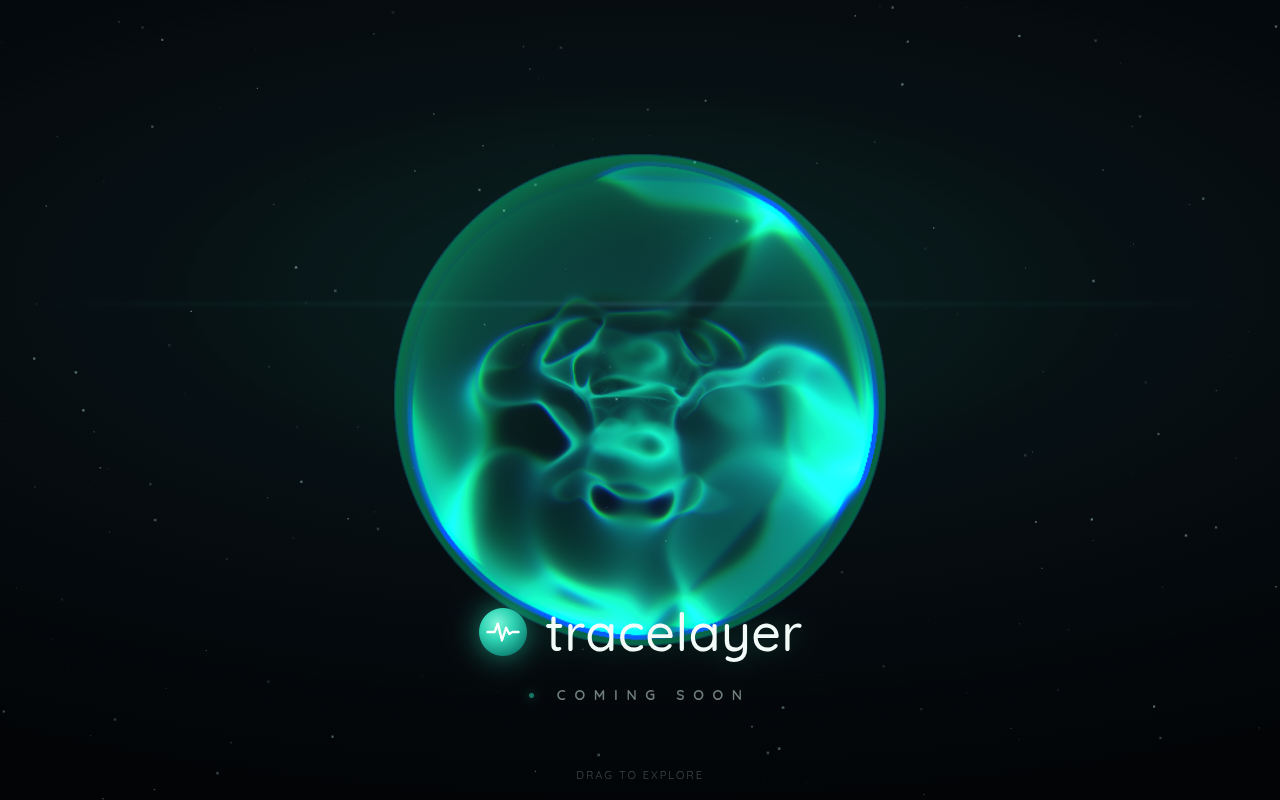
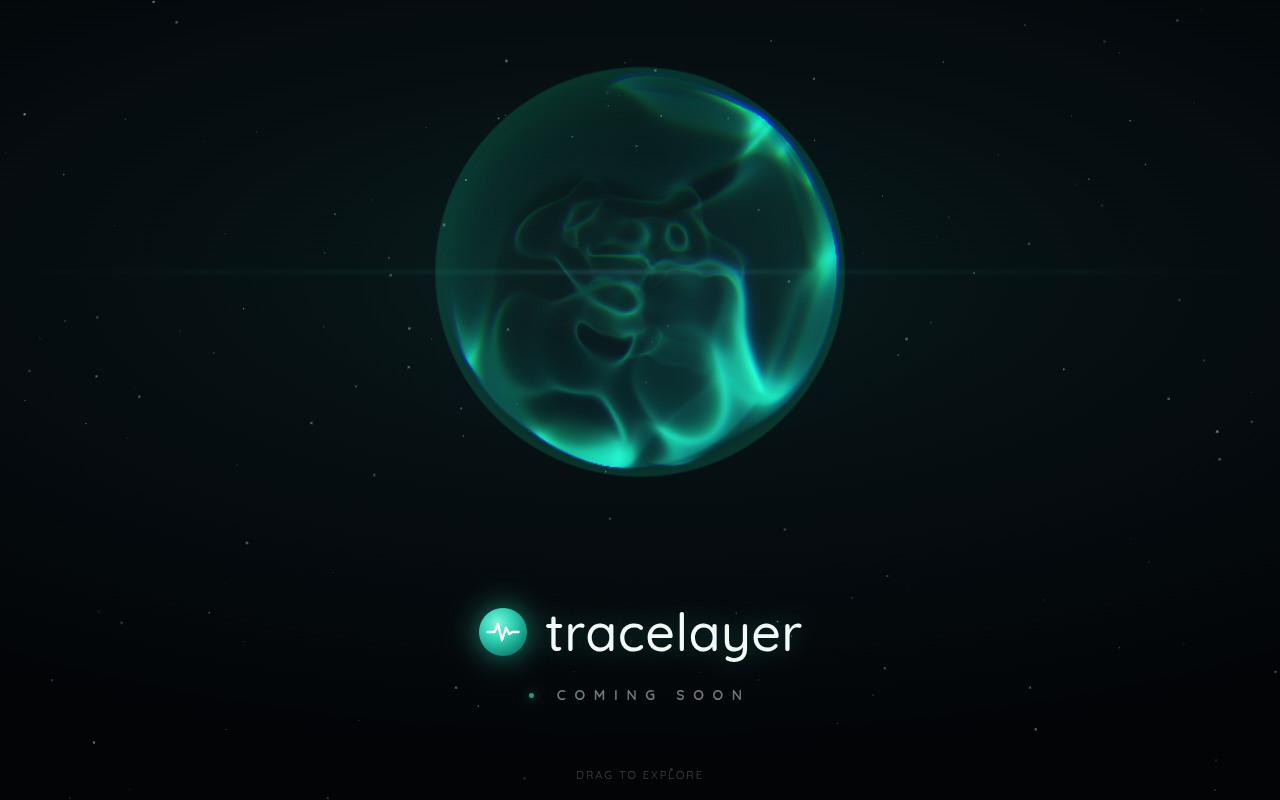
Refine orb: smaller, calmer palette, lifted clear of the wordmark
- Pull camera back and add a camera view-offset so the orb sits in the
  upper portion with clear padding above the logo (spins in place on drag)
- Lower density, atmosphere glow, and chromatic aberration; soften the
  teal/indigo for a less vibrant look
- Realign backdrop glow and light streak to the new orb centre
- Remove the GitHub Pages Actions workflow (site now deploys from branch)

Claude-Session: https://claude.ai/code/session_01DA5k67mkCKbe9f7kUgNswQ

Changed region(s): [[0.2812, 0.0625, 0.7188, 0.8125]]

diff --git a/index.html b/index.html
@@ -78,8 +78,8 @@
             inset: 0;
             z-index: 0;
             background:
-                radial-gradient(130% 85% at 50% 36%, rgba(20, 70, 66, 0.35) 0%, rgba(6, 14, 18, 0.6) 45%, #020406 78%),
-                radial-gradient(55% 45% at 50% 38%, rgba(47, 240, 200, 0.06) 0%, rgba(0,0,0,0) 60%);
+                radial-gradient(120% 80% at 50% 34%, rgba(20, 70, 66, 0.28) 0%, rgba(6, 14, 18, 0.6) 45%, #020406 78%),
+                radial-gradient(46% 38% at 50% 34%, rgba(47, 240, 200, 0.05) 0%, rgba(0,0,0,0) 60%);
         }
 
         /* Subtle starfield */
@@ -96,7 +96,7 @@
             position: fixed;
             left: 0;
             right: 0;
-            top: 38%;
+            top: 34%;
             height: 2px;
             transform: translateY(-50%);
             z-index: 1;
@@ -122,9 +122,9 @@
         /* Static CSS orb — only revealed when WebGL can't run */
         #orb-fallback {
             position: fixed;
-            top: 38%;
+            top: 34%;
             left: 50%;
-            width: min(70vw, 46vh);
+            width: min(48vw, 34vh);
             aspect-ratio: 1;
             transform: translate(-50%, -50%);
             z-index: 2;
@@ -300,21 +300,21 @@
         // Tuned from the "Magical AI Orb" preset system to match the brand.
         // ---------------------------------------------------------------------
         const params = {
-            primaryEnergy: '#2ff0c8',   // bright teal core (brand color)
-            secondaryEnergy: '#4f46e5', // indigo wisps at the edges
+            primaryEnergy: '#39d6b8',   // softer teal core (brand color, toned down)
+            secondaryEnergy: '#4a44c8', // muted indigo wisps at the edges
             speed: 0.5,
-            density: 2.3,
-            atmosphereGlow: 0.42,
+            density: 1.45,              // lower = calmer, less vibrant interior
+            atmosphereGlow: 0.24,       // gentler halo
             atmosphereLevel: 1.0,
-            atmosphereScale: 1.045,
-            orbRotation: 0.32,
-            internalAnim: 0.4,
+            atmosphereScale: 1.04,
+            orbRotation: 0.3,
+            internalAnim: 0.38,
             fractalIters: 4,
             fractalScale: 0.97,
             fractalDecay: -16.7,
             smoothness: 0.031,
             asymmetry: 0.55,
-            chromaticAberration: 0.02
+            chromaticAberration: 0.014
         };
 
         // Graceful degradation: if the browser can't give us a WebGL context,
@@ -346,13 +346,20 @@
         const scene = new THREE.Scene(); // transparent — CSS backdrop shows through
 
         const camera = new THREE.PerspectiveCamera(45, window.innerWidth / window.innerHeight, 0.1, 100);
-        // Pulled back so the orb reads as a contained sphere with clear dark
-        // space below it for the wordmark (matching the coming-soon layout).
-        camera.position.set(0, 0, 8.4);
+        // Pulled back so the orb reads as a smaller, contained sphere with plenty
+        // of dark space around it.
+        camera.position.set(0, 0, 11.5);
 
-        // Vertical framing offset: lift the orb above centre. Applied to both the
-        // mesh and the orbit target so drag-to-rotate stays centred on the orb.
-        const ORB_LIFT = 0.95;
+        // Raise the orb into the upper part of the screen (as a fraction of
+        // viewport height) so its bottom edge sits well clear of the wordmark.
+        // Done with a camera view-offset rather than moving the orb, so the orbit
+        // target stays on the orb and drag-to-rotate keeps it spinning in place.
+        const ORB_SHIFT = 0.16;
+        function applyViewOffset() {
+            const w = window.innerWidth, h = window.innerHeight;
+            camera.setViewOffset(w, h, 0, h * ORB_SHIFT, w, h);
+        }
+        applyViewOffset();
 
         const renderer = new THREE.WebGLRenderer({ canvas, antialias: true, alpha: true });
         renderer.setSize(window.innerWidth, window.innerHeight);
@@ -366,7 +373,6 @@
         controls.enableZoom = false;
         controls.minDistance = 4;
         controls.maxDistance = 10;
-        controls.target.set(0, ORB_LIFT, 0);
         controls.update();
 
         const vertexShader = `
@@ -572,7 +578,6 @@
 
         const geometry = new THREE.SphereGeometry(2.0, 128, 128);
         const orb = new THREE.Mesh(geometry, material);
-        orb.position.y = ORB_LIFT;
         scene.add(orb);
 
         const atmosphereMesh = new THREE.Mesh(geometry, atmosphereMaterial);
@@ -622,6 +627,7 @@
         window.addEventListener('resize', () => {
             camera.aspect = window.innerWidth / window.innerHeight;
             camera.updateProjectionMatrix();
+            applyViewOffset();
             renderer.setSize(window.innerWidth, window.innerHeight);
             composer.setSize(window.innerWidth, window.innerHeight);
         });
